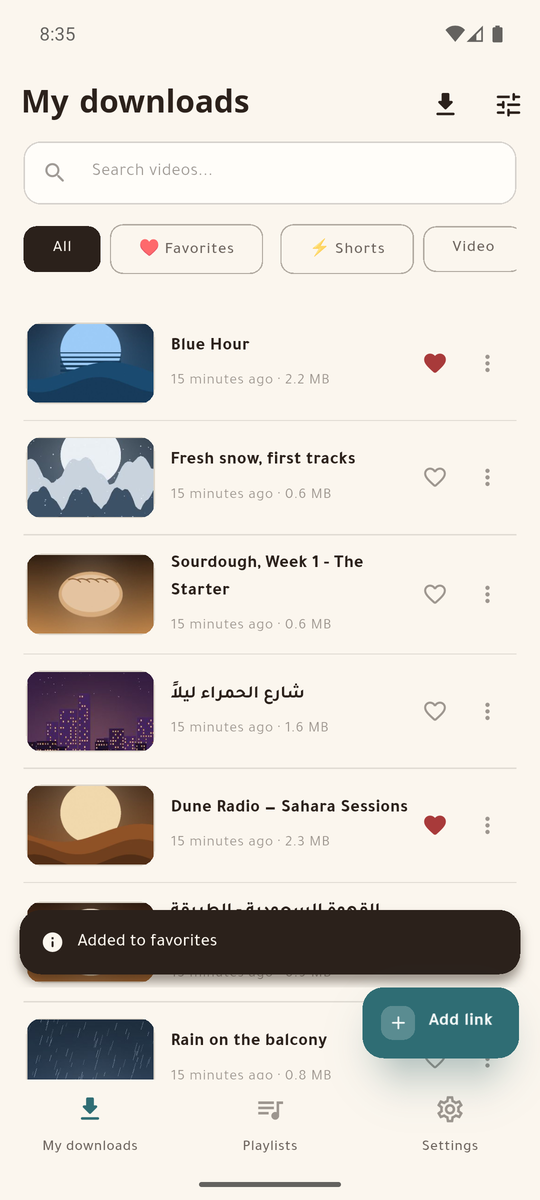
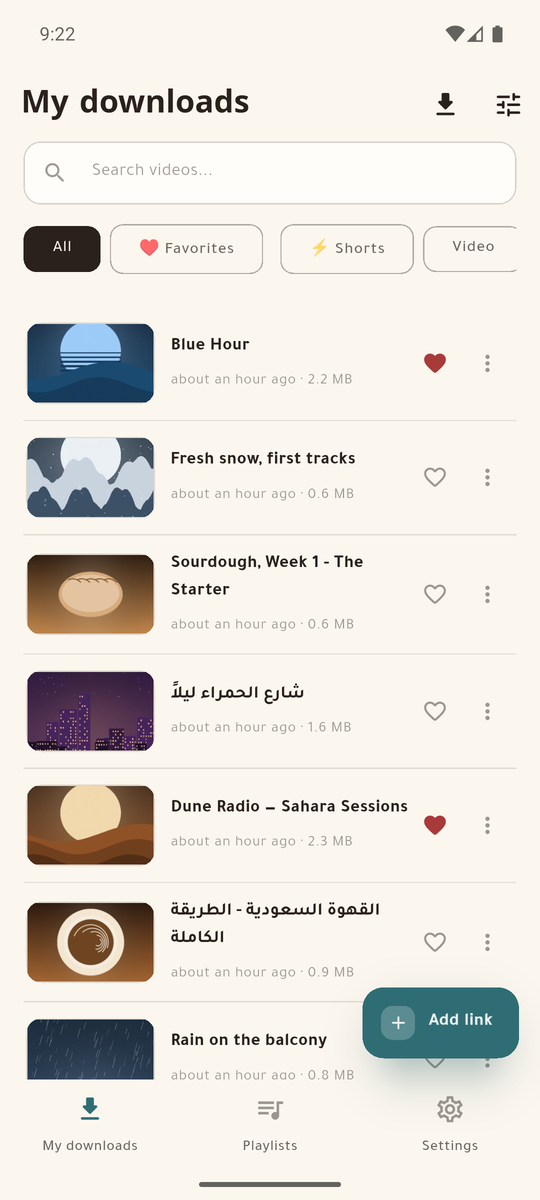
site: the gallery wraps on a wide screen, and the Lite pair no longer overlaps
A width meant for the GIF also caught the two small phones beside it, so they
overflowed their columns and clipped. On a wide screen the gallery hid three
screens behind a sideways scroll with no hint; it now wraps into rows.

diff --git a/index.html b/index.html
@@ -73,8 +73,15 @@ a{color:var(--superDeep)}
   margin:22px calc(var(--gutter) * -1) 0;padding:6px var(--gutter) 22px;scrollbar-width:thin}
 .rail > *{scroll-snap-align:center}
 @media (min-width:820px){.rail{grid-auto-columns:230px;margin-inline:0;padding-inline:2px}}
+/* Two phones side by side: small enough to sit under a paragraph. */
+.rail.pair{grid-auto-columns:min(42vw,190px);justify-content:start}
 .hint{font-size:.85rem;color:var(--muted);margin:0}
-@media (min-width:1040px){.hint{display:none}}
+/* On a wide screen nothing is hidden behind a scroll: the gallery wraps. */
+@media (min-width:1040px){
+  .hint{display:none}
+  .rail.wrap{grid-auto-flow:row;grid-template-columns:repeat(4,1fr);gap:34px 26px;
+    overflow:visible;scroll-snap-type:none;padding-bottom:0}
+}
 
 /* ── The two apps, as cards rather than a table: a table of four columns
       is the first thing to break on a phone. ── */
@@ -91,7 +98,7 @@ a{color:var(--superDeep)}
 
 .split{display:grid;gap:clamp(20px,5vw,48px);align-items:center;margin-top:12px}
 @media (min-width:760px){.split{grid-template-columns:1fr minmax(220px,280px)}}
-.split .phone{justify-self:center;width:min(70vw,280px)}
+.split > .phone{justify-self:center;width:min(70vw,280px)}
 
 ul{padding-inline-start:1.2em;margin:0 0 1em}
 li{margin:.45em 0}
@@ -134,7 +141,7 @@ footer{margin-top:56px;border-top:1px solid var(--line);padding-top:22px;font-si
 
   <h2>A look inside</h2>
   <p class="note">Every title, channel and cover below is invented for these screenshots; no real server or account appears in them.</p>
-  <div class="rail" aria-label="Screenshots of MeTube Super">
+  <div class="rail wrap" aria-label="Screenshots of MeTube Super">
     <figure class="phone">
       <img loading="lazy" src="screenshots/super-player.png" width="540" height="1200" alt="Streaming a video from the server, with actions and the up-next queue beneath it">
       <figcaption><strong>Stream from your server</strong>Save to the phone, continue as audio, share, with the queue beneath.</figcaption>
@@ -207,7 +214,7 @@ footer{margin-top:56px;border-top:1px solid var(--line);padding-top:22px;font-si
         <li>A four-stage pipeline — add, follow, pull, clean — with live progress and a cancel that leaves nothing behind.</li>
         <li>Reaches the server at home or through a tunnel, and can hold downloads to Wi-Fi.</li>
       </ul>
-      <div class="rail" aria-label="Screenshots of MeTube Lite" style="grid-auto-columns:min(46vw,190px)">
+      <div class="rail pair" aria-label="Screenshots of MeTube Lite">
         <figure class="phone"><img loading="lazy" src="screenshots/lite-day.png" width="540" height="1200" alt="The MeTube Lite library by day"><figcaption>By day</figcaption></figure>
         <figure class="phone"><img loading="lazy" src="screenshots/lite-night.png" width="540" height="1200" alt="The MeTube Lite library at night"><figcaption>At night</figcaption></figure>
       </div>
